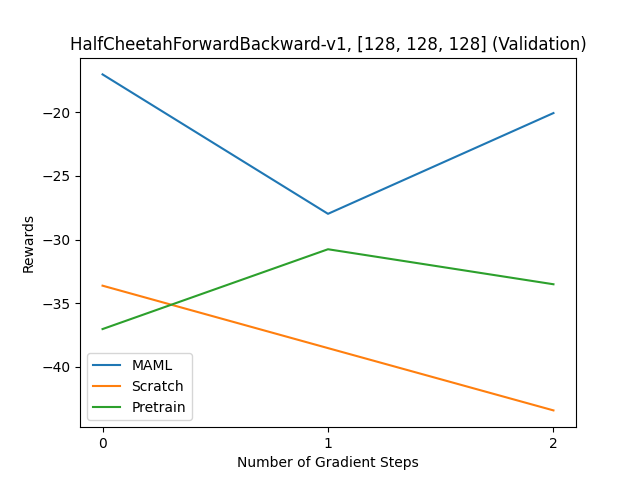
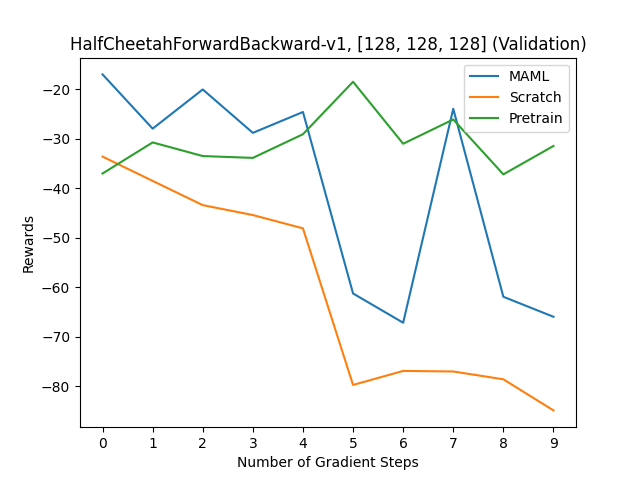
adde multisample for evaluation

diff --git a/policy_gradient.py b/policy_gradient.py
@@ -183,7 +183,8 @@ def train_pg(
     num_workers=4,
     seed=0,
     filepath=None,
-    mode_str="scratch"
+    mode_str="scratch",
+    num_samples=10
 ):
     random.seed(seed)
     np.random.seed(seed)
@@ -192,49 +193,56 @@ def train_pg(
     def make_env():
         return gym.make(env_name)
 
-    env = l2l.gym.AsyncVectorEnv([make_env for _ in range(num_workers)])
-    env.seed(seed)
-    env = ch.envs.Torch(env)
-    policy = Policy(input_size=env.state_size, output_size=env.action_size, hidden_dims=policy_hidden)
-    learner = BaseLearner(policy)
-    if filepath:
-        print("Using weights from ", filepath)
-        learner.load_state_dict(torch.load(filepath))
-    baseline = LinearValue(env.state_size, env.action_size)
-    opt = optim.Adam(policy.parameters(), lr=lr)
+    train_rewards = np.zeros((num_iterations,))
+    val_rewards = np.zeros((num_iterations,))
 
-    train_rewards = []
-    val_rewards = []
 
-    task_config = env.sample_tasks(1)
+    for i in range(num_samples):
+        print("Sample task " + str(i))
+        env = l2l.gym.AsyncVectorEnv([make_env for _ in range(num_workers)])
+        env.seed(seed)
+        env = ch.envs.Torch(env)
+        policy = Policy(input_size=env.state_size, output_size=env.action_size, hidden_dims=policy_hidden)
+        learner = BaseLearner(policy)
+        if filepath:
+            print("Using weights from ", filepath)
+            learner.load_state_dict(torch.load(filepath))
+        baseline = LinearValue(env.state_size, env.action_size)
+        opt = optim.Adam(policy.parameters(), lr=lr)
 
-    for iteration in range(num_iterations):
-        task_config = env.sample_tasks(1)[0]
-        env.set_task(task_config)
-        env.reset()
-        task = ch.envs.Runner(env)
+        
 
-        # update policy
-        train_episodes = task.run(learner, episodes=batch_size)
-        train_loss = pg_loss(train_episodes, learner, baseline, discount)
-        train_reward = train_episodes.reward().sum().item() / batch_size
-        train_rewards.append(train_reward)
+        task_config = env.sample_tasks(1)
 
-        opt.zero_grad()
-        train_loss.backward()
-        opt.step()
+        for iteration in range(num_iterations):
+            task_config = env.sample_tasks(1)[0]
+            env.set_task(task_config)
+            env.reset()
+            task = ch.envs.Runner(env)
 
-        # validation 
-        valid_episodes = task.run(learner, episodes=batch_size)
-        validation_loss = pg_loss(valid_episodes, learner, baseline, discount)
-        validation_reward = valid_episodes.reward().sum().item() / batch_size
-        val_rewards.append(validation_reward)
+            # update policy
+            train_episodes = task.run(learner, episodes=batch_size)
+            train_loss = pg_loss(train_episodes, learner, baseline, discount)
+            train_reward = train_episodes.reward().sum().item() / batch_size
+            train_rewards[iteration] += train_reward
 
-        print('\nIteration', iteration)
-        print('Validation Reward', validation_reward)
-        # print('Validation loss', validation_loss.item())
+            opt.zero_grad()
+            train_loss.backward()
+            opt.step()
+
+            # validation 
+            valid_episodes = task.run(learner, episodes=batch_size)
+            validation_loss = pg_loss(valid_episodes, learner, baseline, discount)
+            validation_reward = valid_episodes.reward().sum().item() / batch_size
+            val_rewards[iteration] += validation_reward
+
+            print('\nIteration', iteration)
+            print('Validation Reward', validation_reward)
+            # print('Validation loss', validation_loss.item())
     
-    torch.save(learner.state_dict(), './models/' + env_name + "/" + "_".join([str(n) for n in policy_hidden]) + '/pg_' + 'train_' + mode_str + '.pt')
+    train_rewards /= num_samples 
+    val_rewards /= num_samples
+    # torch.save(learner.state_dict(), './models/' + env_name + "/" + "_".join([str(n) for n in policy_hidden]) + '/pg_' + 'train_' + mode_str + '.pt')
     np.save('./performance_data/' + env_name + "/" + "_".join([str(n) for n in policy_hidden]) + '/pg_' + 'train_' + mode_str + '_train_rewards.npy', train_rewards)
     np.save('./performance_data/' + env_name + "/" + "_".join([str(n) for n in policy_hidden]) + '/pg_' + 'train_' + mode_str +  '_val_rewards.npy', val_rewards)
     

diff --git a/plot.py b/plot.py
@@ -59,14 +59,15 @@ def plotGraphsHidden(env, grad_steps=3, show=False):
         plt.show()
 
 if __name__ == "__main__":
-    # plotGraphs("HalfCheetahForwardBackward-v1", [128], show=True)
-    # plotGraphs("HalfCheetahForwardBackward-v1", [128,128], show=True)
-    # plotGraphs("HalfCheetahForwardBackward-v1", [128,128, 128], show=True)
     grad_steps = 10
-    plotGraphs("HumanoidForwardBackward-v1", [128], grad_steps=grad_steps, show=True)
-    plotGraphs("HumanoidForwardBackward-v1", [128,128], grad_steps=grad_steps, show=True)
-    plotGraphs("HumanoidForwardBackward-v1", [128,128,128], grad_steps=grad_steps, show=True)
-    plotGraphs("AntForwardBackward-v1", [128], grad_steps=grad_steps, show=True)
-    plotGraphs("AntForwardBackward-v1", [128,128], grad_steps=grad_steps, show=True)
-    plotGraphs("AntForwardBackward-v1", [128,128, 128], grad_steps=grad_steps, show=True)
+    plotGraphs("HalfCheetahForwardBackward-v1", [128], grad_steps=grad_steps,  show=True)
+    plotGraphs("HalfCheetahForwardBackward-v1", [128,128], grad_steps=grad_steps,  show=True)
+    plotGraphs("HalfCheetahForwardBackward-v1", [128,128, 128], grad_steps=grad_steps,  show=True)
+    
+    # plotGraphs("HumanoidForwardBackward-v1", [128], grad_steps=grad_steps, show=True)
+    # plotGraphs("HumanoidForwardBackward-v1", [128,128], grad_steps=grad_steps, show=True)
+    # plotGraphs("HumanoidForwardBackward-v1", [128,128,128], grad_steps=grad_steps, show=True)
+    # plotGraphs("AntForwardBackward-v1", [128], grad_steps=grad_steps, show=True)
+    # plotGraphs("AntForwardBackward-v1", [128,128], grad_steps=grad_steps, show=True)
+    # plotGraphs("AntForwardBackward-v1", [128,128, 128], grad_steps=grad_steps, show=True)
 

diff --git a/main.py b/main.py
@@ -30,11 +30,11 @@ def main(envs, hiddens, train_iters=50, eval_iters=5, num_workers=1):
 
             print("\nUsing hidden dims ", hidden_dims)
 
-            print("\nRunning MAML")
-            maml_pg(env_name=env, num_iterations=train_iters, policy_hidden=hidden_dims, num_workers=num_workers)
+            # print("\nRunning MAML")
+            # maml_pg(env_name=env, num_iterations=train_iters, policy_hidden=hidden_dims, num_workers=num_workers)
 
-            print("\nRunning Pretrain")
-            pretrain_pg(env_name=env, num_iterations=train_iters, policy_hidden=hidden_dims, num_workers=num_workers)
+            # print("\nRunning Pretrain")
+            # pretrain_pg(env_name=env, num_iterations=train_iters, policy_hidden=hidden_dims, num_workers=num_workers)
             
             # evaluate scratch vs pretrain vs maml
             print("\nTraining from scratch")
@@ -57,8 +57,8 @@ if __name__ == '__main__':
     # all envs have continuous action spaces
     envs = [
         # john desktop
-        # 'HalfCheetahForwardBackward-v1', # done
-        'HumanoidDirection-v1'
+        'HalfCheetahForwardBackward-v1', # done
+        # 'HumanoidDirection-v1'
         
         # john laptop
         # 'AntForwardBackward-v1', # done
@@ -76,4 +76,4 @@ if __name__ == '__main__':
         [128,128,128]
     ]
 
-    main(envs, hiddens, train_iters=50, eval_iters=10, num_workers=2)
+    main(envs, hiddens, train_iters=50, eval_iters=3, num_workers=2)
